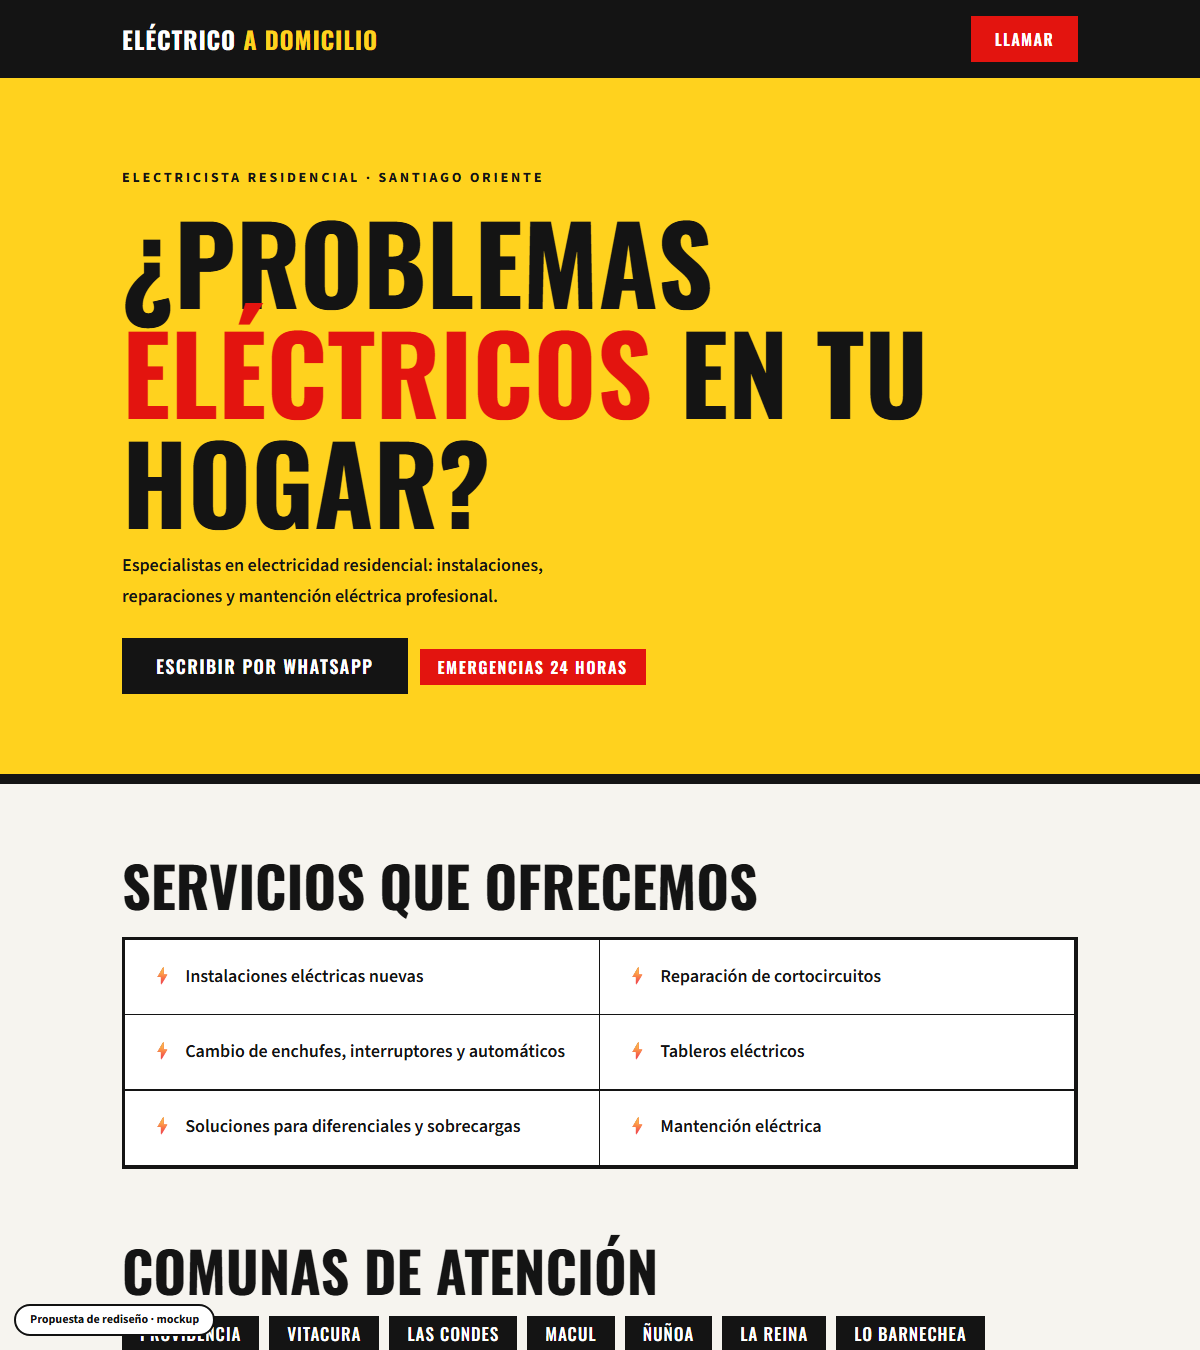
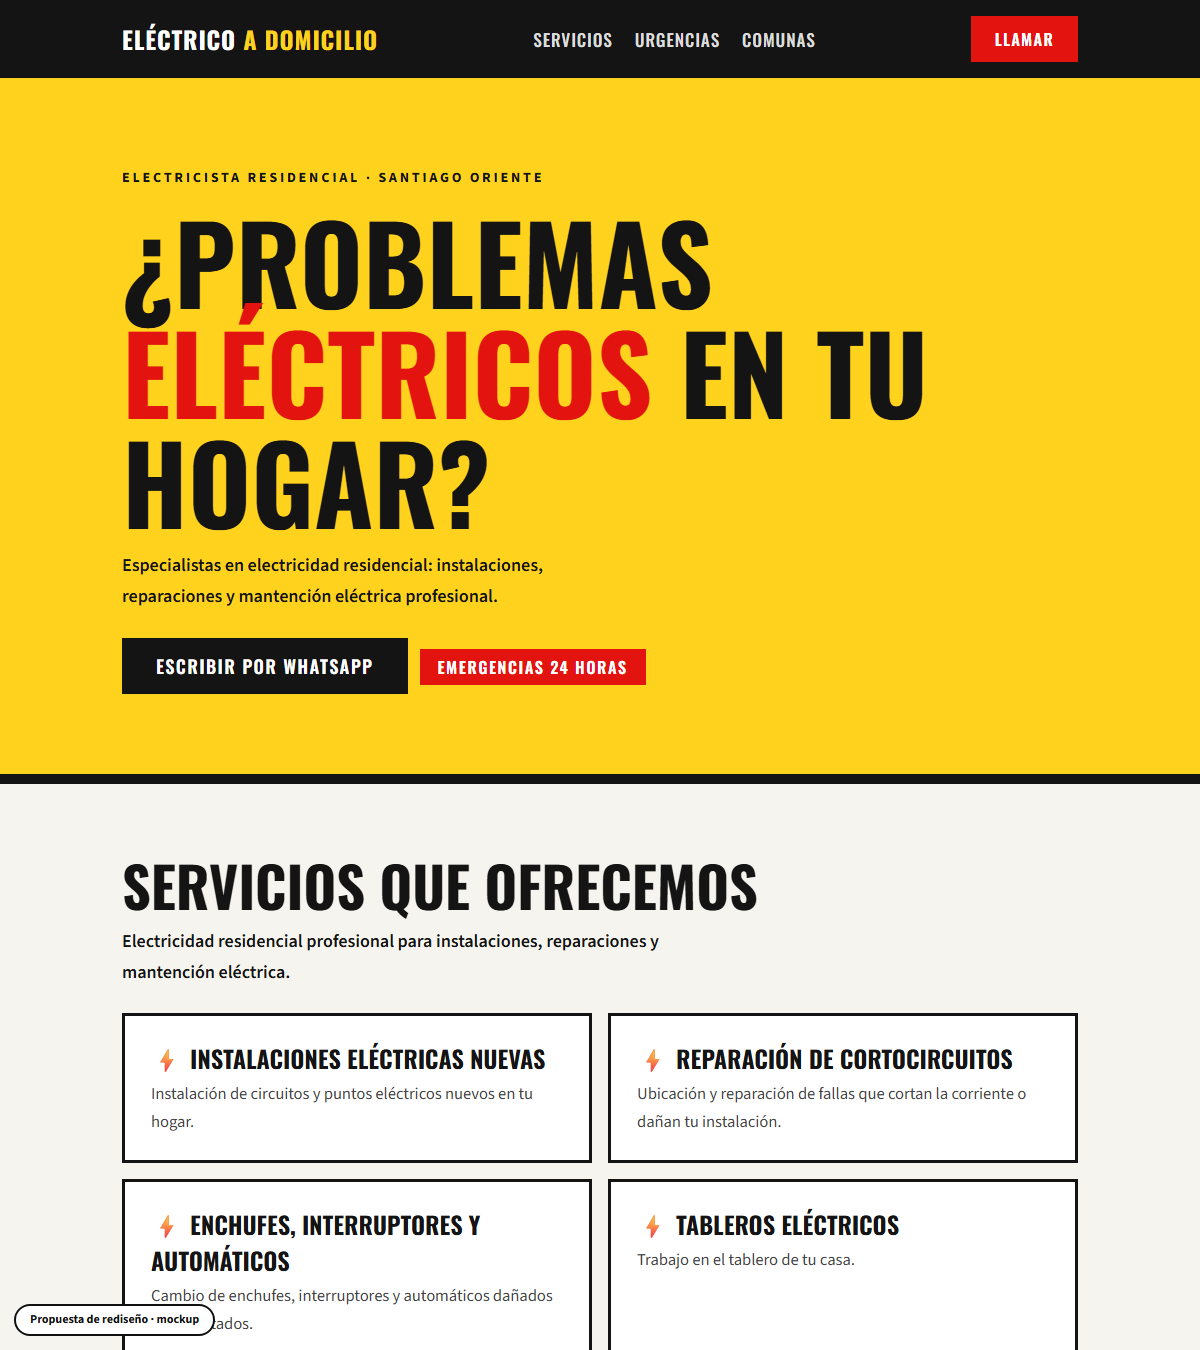
Mockup: electrico-a-domicilio-macul

diff --git a/electrico-a-domicilio-macul/index.html b/electrico-a-domicilio-macul/index.html
@@ -6,12 +6,12 @@
 <link href="https://fonts.googleapis.com/css2?family=Oswald:wght@500;600;700&family=Source+Sans+3:wght@400;600;700&display=swap" rel="stylesheet">
 <style>
 :root{--red:#e3140f;--black:#141414;--yellow:#ffd21e;--paper:#f6f4ef;--line:#ddd8cc}
-*{box-sizing:border-box;margin:0}html{scroll-behavior:smooth}
+*{box-sizing:border-box;margin:0}html{scroll-behavior:smooth;scroll-padding-top:100px}
 @media(prefers-reduced-motion:reduce){html{scroll-behavior:auto}}
 body{background:var(--paper);color:var(--black);font:400 18px/1.7 'Source Sans 3',sans-serif}
 .wrap{max-width:1000px;margin:0 auto;padding:0 22px}
 h1,h2,h3{font-family:Oswald,sans-serif;text-transform:uppercase;line-height:1.02;font-weight:700}
-header{background:var(--black);color:#fff}header .wrap{display:flex;justify-content:space-between;align-items:center;height:78px;gap:12px}
+header{position:sticky;top:0;z-index:20;background:var(--black);color:#fff}header .wrap{display:flex;justify-content:space-between;align-items:center;height:78px;gap:12px}
 .brand{font:700 24px Oswald;letter-spacing:.04em;text-transform:uppercase}.brand i{font-style:normal;color:var(--yellow)}
 header a.b{background:var(--red);color:#fff;text-decoration:none;padding:11px 24px;font:600 16px Oswald;letter-spacing:.08em;text-transform:uppercase}
 header a.b:hover{background:var(--yellow);color:var(--black)}
@@ -30,13 +30,20 @@ section{padding:72px 0}h2{font-size:clamp(32px,5vw,56px);margin-bottom:14px}
 .contact{background:var(--red);color:#fff;text-align:center}.contact h2{color:#fff}
 .contact a.l{display:block;font:700 clamp(44px,8vw,96px) Oswald;color:#fff;text-decoration:none;margin:6px 0}.contact a.l:hover{color:var(--yellow)}
 footer{padding:22px 0 90px;text-align:center;font-size:13px;color:#777}
-.mock{position:fixed;left:14px;bottom:14px;background:#fff;color:#111;border:2px solid #111;font:700 12px/1 'Source Sans 3';padding:8px 14px;border-radius:30px;z-index:9}
+.mock{z-index:30;position:fixed;left:14px;bottom:14px;background:#fff;color:#111;border:2px solid #111;font:700 12px/1 'Source Sans 3';padding:8px 14px;border-radius:30px;z-index:9}
 @media(max-width:760px){.list{grid-template-columns:1fr}.hero .wrap{padding:52px 22px 52px}.alert{margin:10px 0 0}}
-</style></head><body>
-<header><div class="wrap"><div class="brand">Eléctrico <i>a Domicilio</i></div><a class="b" href="tel:+56992285682">Llamar</a></div></header>
+nav{display:flex;gap:22px;font:500 17px Oswald;letter-spacing:.06em;text-transform:uppercase}nav a{color:#ddd;text-decoration:none}nav a:hover{color:var(--yellow)}.urg{background:var(--black);color:#fff}.urg h2{color:var(--yellow)}.urg .cols{display:grid;grid-template-columns:repeat(3,1fr);gap:16px;margin-top:24px}.urg .cols div{border:2px solid #333;padding:24px}.urg b{font:600 22px Oswald;text-transform:uppercase;color:var(--yellow);display:block;margin-bottom:6px}.urg p{color:#d6d6d6;font-size:16px}.det{display:grid;grid-template-columns:1fr 1fr;gap:16px;margin-top:24px}.det div{background:#fff;border:3px solid var(--black);padding:24px 26px}.det b{font:700 24px Oswald;text-transform:uppercase;display:block;margin-bottom:4px}.det p{font-size:16.5px;color:#444}@media(max-width:820px){nav{display:none}.urg .cols,.det{grid-template-columns:1fr}}</style></head><body>
+<header><div class="wrap"><div class="brand">Eléctrico <i>a Domicilio</i></div><nav><a href="#servicios">Servicios</a><a href="#urgencias">Urgencias</a><a href="#comunas">Comunas</a></nav><a class="b" href="tel:+56992285682">Llamar</a></div></header>
 <div class="hero"><div class="wrap"><small>Electricista residencial · Santiago oriente</small><h1>¿Problemas <span>eléctricos</span> en tu hogar?</h1><p>Especialistas en electricidad residencial: instalaciones, reparaciones y mantención eléctrica profesional.</p><a class="btn" href="https://wa.me/56992285682?text=Hola%2C%20necesito%20un%20electricista">Escribir por WhatsApp</a><span class="alert">Emergencias 24 horas</span></div></div>
-<section><div class="wrap"><h2>Servicios que ofrecemos</h2><div class="list"><div>Instalaciones eléctricas nuevas</div><div>Reparación de cortocircuitos</div><div>Cambio de enchufes, interruptores y automáticos</div><div>Tableros eléctricos</div><div>Soluciones para diferenciales y sobrecargas</div><div>Mantención eléctrica</div></div></div></section>
-<section style="padding-top:0"><div class="wrap"><h2>Comunas de atención</h2><div class="zones"><span>Providencia</span><span>Vitacura</span><span>Las Condes</span><span>Macul</span><span>Ñuñoa</span><span>La Reina</span><span>Lo Barnechea</span></div></div></section>
+<section id="servicios"><div class="wrap"><h2>Servicios que ofrecemos</h2><p style="max-width:60ch;font-weight:600">Electricidad residencial profesional para instalaciones, reparaciones y mantención eléctrica.</p><div class="det">
+<div><b>⚡ Instalaciones eléctricas nuevas</b><p>Instalación de circuitos y puntos eléctricos nuevos en tu hogar.</p></div>
+<div><b>⚡ Reparación de cortocircuitos</b><p>Ubicación y reparación de fallas que cortan la corriente o dañan tu instalación.</p></div>
+<div><b>⚡ Enchufes, interruptores y automáticos</b><p>Cambio de enchufes, interruptores y automáticos dañados o desgastados.</p></div>
+<div><b>⚡ Tableros eléctricos</b><p>Trabajo en el tablero de tu casa.</p></div>
+<div><b>⚡ Diferenciales y sobrecargas</b><p>Soluciones para diferenciales que saltan y sobrecargas en la instalación.</p></div>
+<div><b>⚡ Mantención eléctrica</b><p>Revisión y mantención de la instalación eléctrica de tu hogar.</p></div></div></div></section>
+<section class="urg" id="urgencias"><div class="wrap"><h2>Emergencias 24 horas</h2><p style="max-width:56ch;color:#d6d6d6">Llama o escribe a cualquier hora si tienes un problema eléctrico urgente. Algunos casos en los que conviene llamar:</p><div class="cols"><div><b>Salta el automático</b><p>Se corta la luz de forma repetida o salta el diferencial.</p></div><div><b>Cortocircuito</b><p>Chispazos, olor a quemado o enchufes dañados.</p></div><div><b>Sin luz en parte de la casa</b><p>Un sector sin energía mientras el resto funciona.</p></div></div></div></section>
+<section id="comunas"><div class="wrap"><h2>Comunas de atención</h2><div class="zones"><span>Providencia</span><span>Vitacura</span><span>Las Condes</span><span>Macul</span><span>Ñuñoa</span><span>La Reina</span><span>Lo Barnechea</span></div><p style="margin-top:16px;color:#555">¿Tu comuna no está en la lista? Consulta por teléfono o WhatsApp.</p></div></section>
 <section class="contact" id="contacto"><div class="wrap"><h2>Llama ahora</h2><a class="l" href="tel:+56992285682">+56 9 9228 5682</a><p>Teléfono y WhatsApp<br><a style="color:#fff" href="mailto:novovargas@gmail.com">novovargas@gmail.com</a></p></div></section>
 <footer>ELÉCTRICO A DOMICILIO · SANTIAGO</footer>
 <div class="mock">Propuesta de rediseño · mockup</div></body></html>
